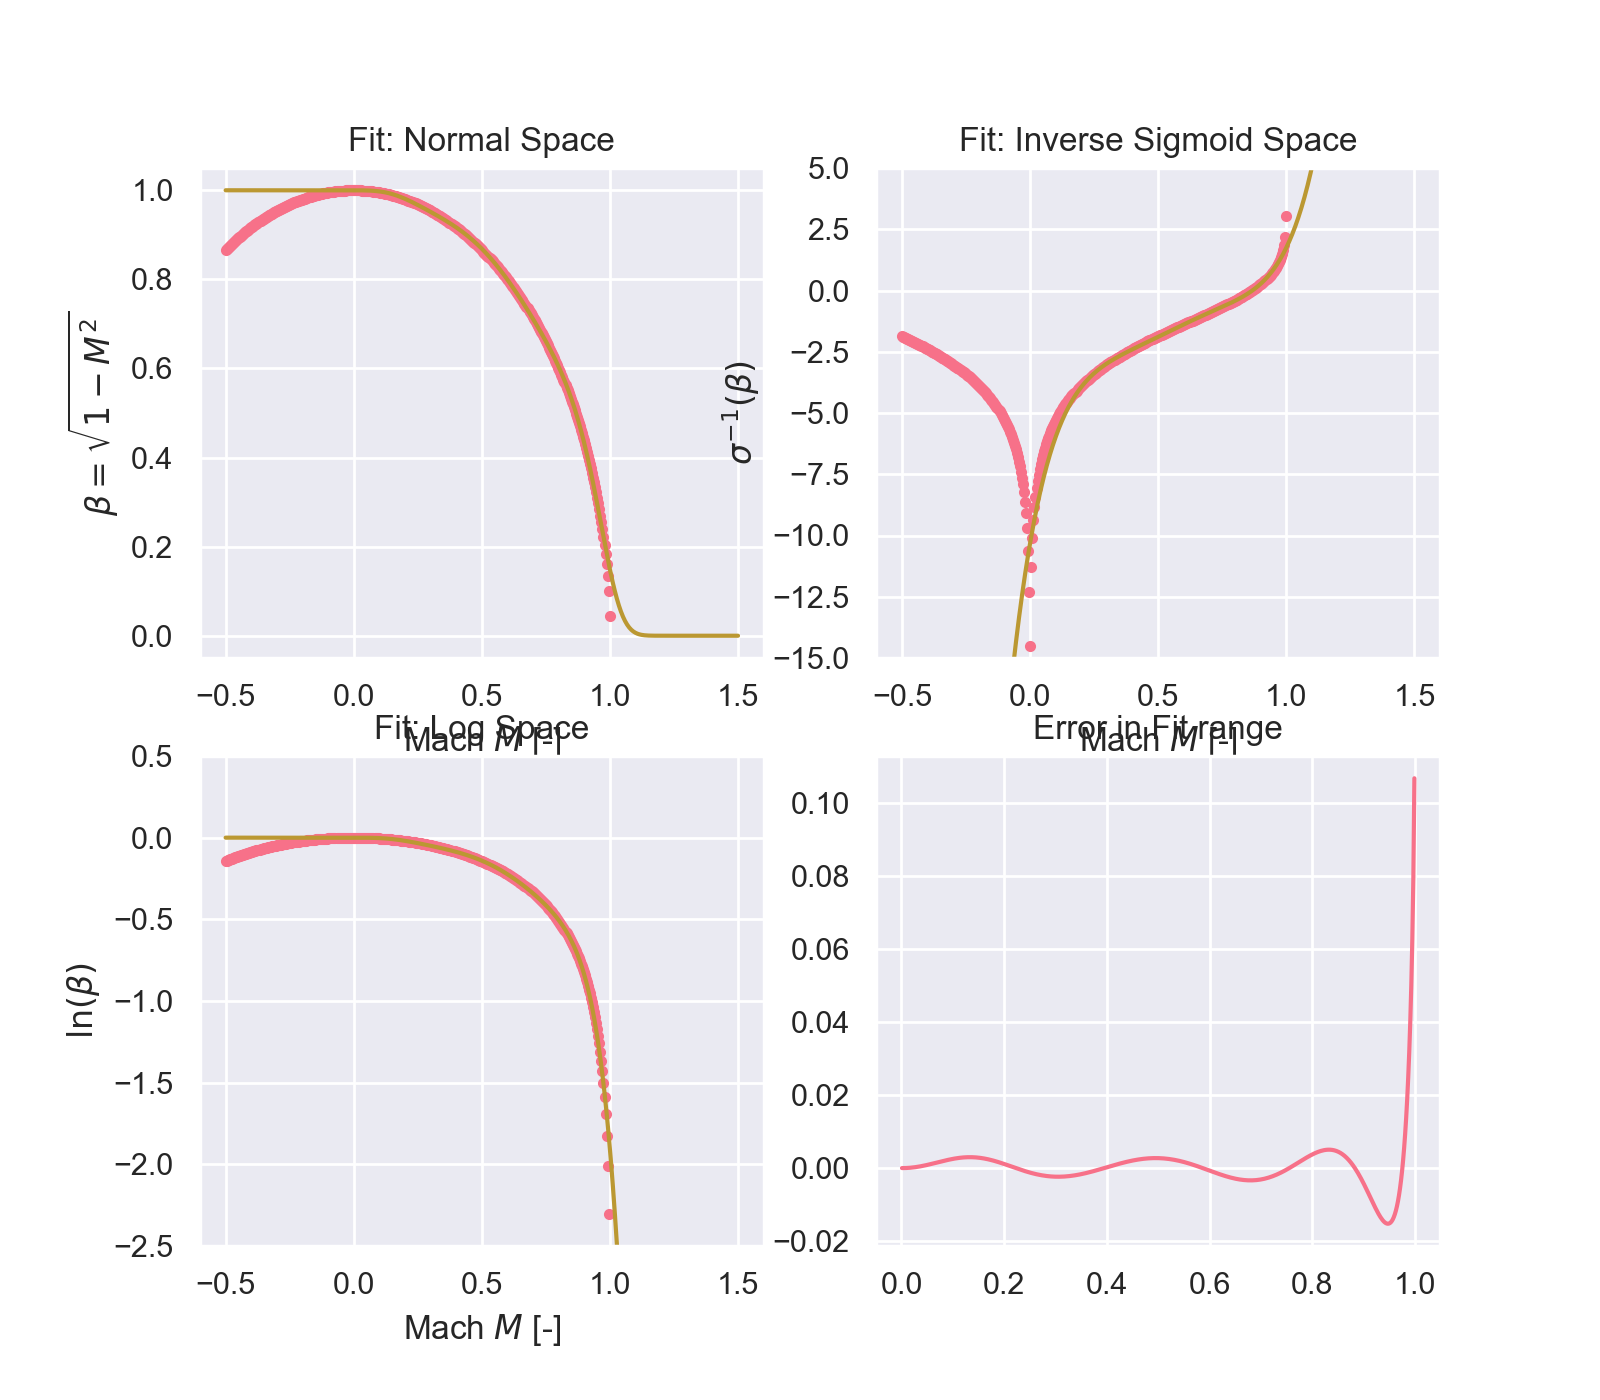
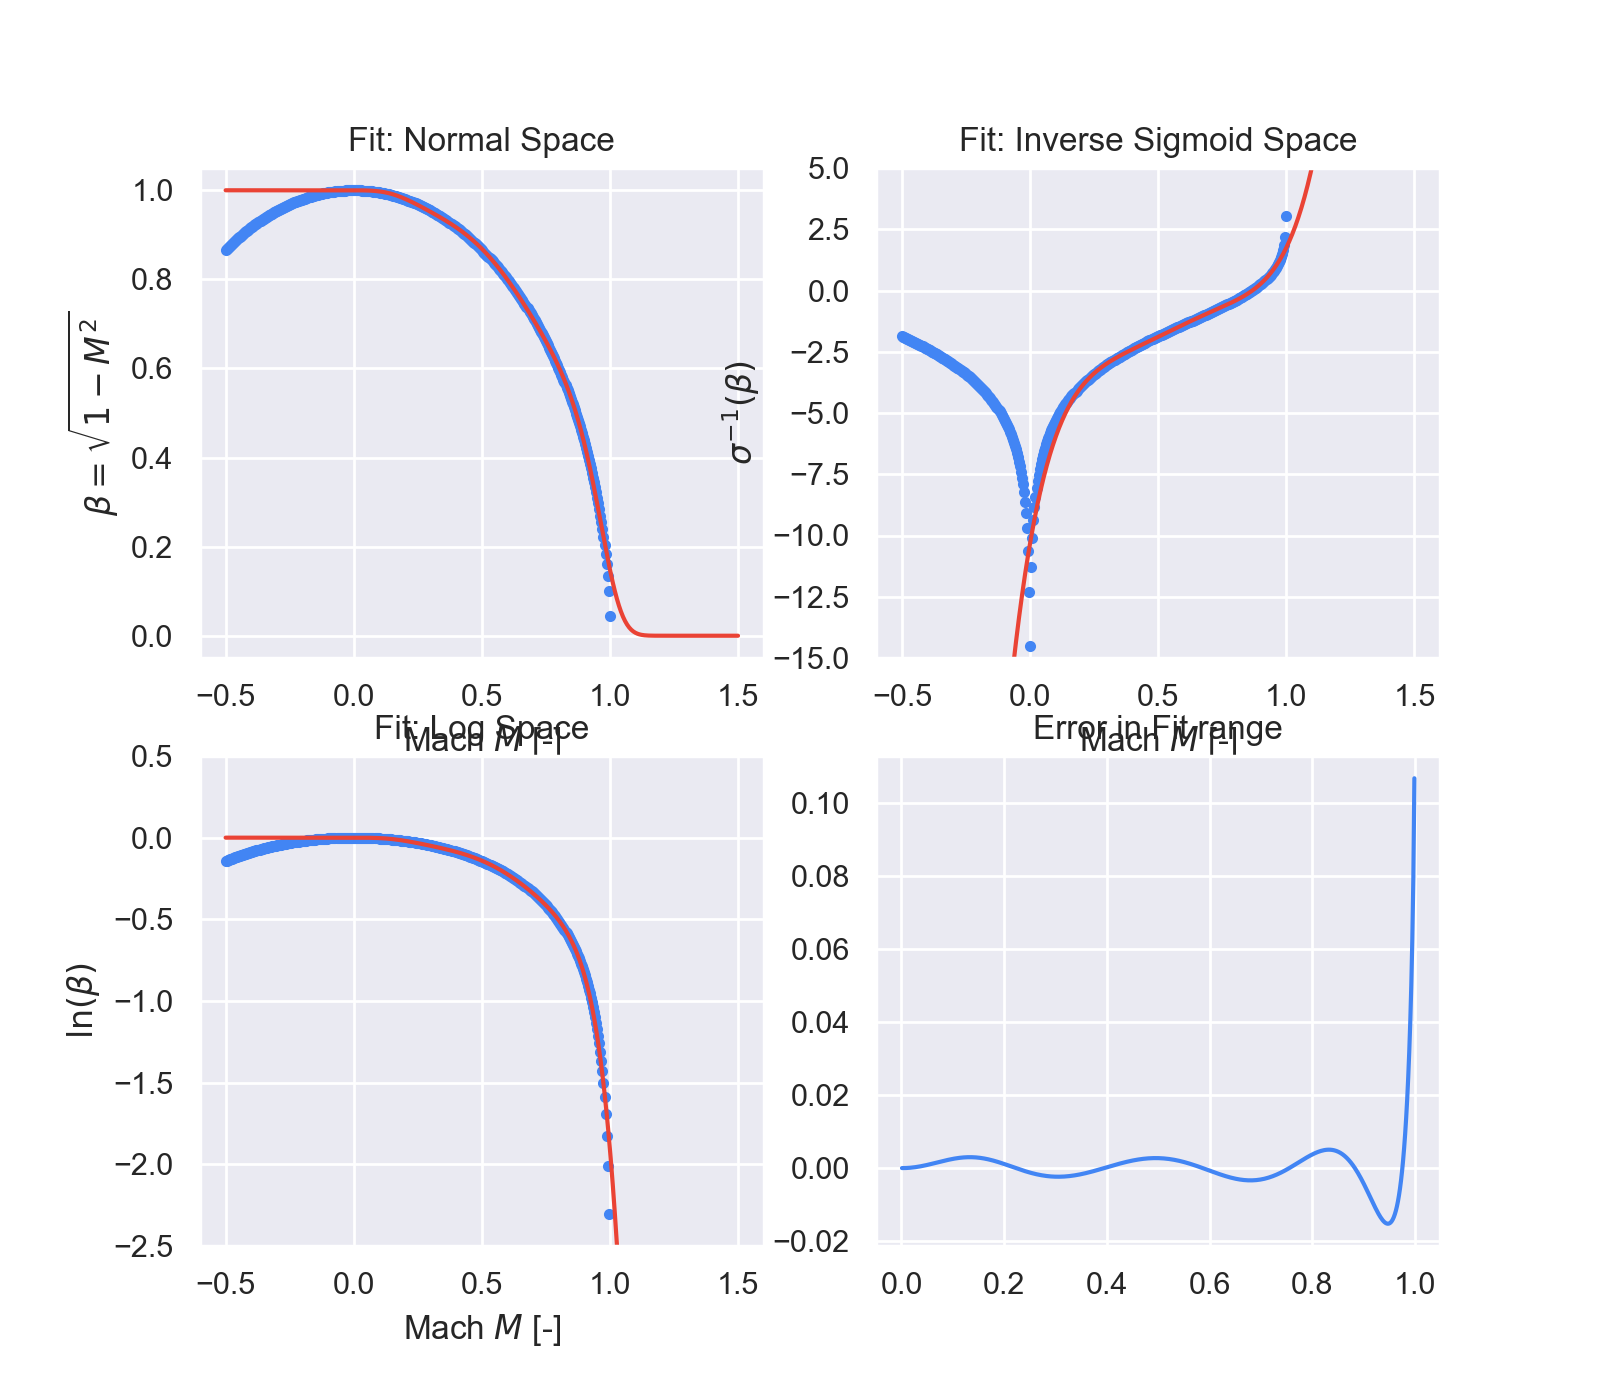
modernize code

diff --git a/studies/MachFitting/machfitting.py b/studies/MachFitting/machfitting.py
@@ -1,10 +1,7 @@
-from aerosandbox.modeling.fitting import fit
+import aerosandbox as asb
+import aerosandbox.numpy as np
 import matplotlib.pyplot as plt
-import seaborn as sns
-from aerosandbox import cas
-
-sns.set(palette=sns.color_palette("husl"))
-import numpy as np
+import aerosandbox.tools.pretty_plots as p
 
 
 def beta(mach):
@@ -15,11 +12,11 @@ machs_to_fit = np.linspace(0.001, 0.999, 500)
 
 
 def sigmoid(x):
-    return 1 / (1 + cas.exp(x))
+    return 1 / (1 + np.exp(x))
 
 
 def inv_sigmoid(x):
-    return cas.log(1 / x - 1)
+    return np.log(1 / x - 1)
 
 
 weights = np.ones_like(machs_to_fit)
@@ -27,29 +24,6 @@ weights[0] = 1000
 weights[machs_to_fit > 0.9] = 0.5
 weights[machs_to_fit > 0.95] = 0.25
 
-
-# def model(x, p):
-#     return sigmoid(
-#         p["m"]*x+p["th"]*cas.tanh((x-p["o"]))+p["c"]
-#     )
-#
-#
-# fit_params = fit(
-#     model=model,
-#     x_data=machs_to_fit,
-#     y_data=beta(machs_to_fit),
-#     param_guesses={
-#         "m": 10,
-#         "c": -0.5,
-#         "th": -1,
-#         "o": 0.6
-#     },
-#     param_bounds={
-#         "o": (0.25, 0.75),
-#         "th": (None, 0),
-#     },
-#     weights=weights
-# )
 
 def model(x, p):
     return sigmoid(
@@ -59,11 +33,11 @@ def model(x, p):
     )
 
 
-fit_params = fit(
+fit = asb.FittedModel(
     model=model,
     x_data=machs_to_fit,
     y_data=beta(machs_to_fit),
-    param_guesses={
+    parameter_guesses={
         "p1": 4.6,
         "o1": 0.89,
         "p3": 140,
@@ -71,7 +45,7 @@ fit_params = fit(
         "p5": 120,
         "o5": 0.79,
     },
-    param_bounds={
+    parameter_bounds={
         "o3": (0, 1),
         "o5": (0, 1),
     },
@@ -79,33 +53,35 @@ fit_params = fit(
     # residual_norm_type="deviation"
 )
 
-error = model(machs_to_fit, fit_params) - beta(machs_to_fit)
+error = fit(machs_to_fit) - beta(machs_to_fit)
 error = np.array(error)
 
 machs_to_plot = np.linspace(-0.5, 1.5, 500)
 fig, ax = plt.subplots(1, 1, figsize=(8, 7), dpi=200)
-plt.subplot("221")
+plt.subplot(221)
 plt.plot(machs_to_plot, beta(machs_to_plot), ".", label="")
-plt.plot(machs_to_plot, model(machs_to_plot, fit_params))
+plt.plot(machs_to_plot, fit(machs_to_plot))
 plt.ylim(-0.05, 1.05)
 plt.title("Fit: Normal Space")
 plt.xlabel(r"Mach $M$ [-]")
 plt.ylabel(r"$\beta = \sqrt{1-M^2}$")
-plt.subplot("222")
+plt.subplot(222)
 plt.plot(machs_to_plot, inv_sigmoid(beta(machs_to_plot)), ".", label="")
-plt.plot(machs_to_plot, inv_sigmoid(model(machs_to_plot, fit_params)))
+plt.plot(machs_to_plot, inv_sigmoid(fit(machs_to_plot)))
 plt.ylim(-15, 5)
 plt.title("Fit: Inverse Sigmoid Space")
 plt.xlabel(r"Mach $M$ [-]")
 plt.ylabel(r"$\sigma^{-1}\left(\beta\right)$")
-plt.subplot("223")
-plt.plot(machs_to_plot, cas.log(beta(machs_to_plot)), ".", label="")
-plt.plot(machs_to_plot, cas.log(model(machs_to_plot, fit_params)))
+plt.subplot(223)
+plt.plot(machs_to_plot, np.log(beta(machs_to_plot)), ".", label="")
+plt.plot(machs_to_plot, np.log(fit(machs_to_plot)))
 plt.ylim(-2.5, 0.5)
 plt.title("Fit: Log Space")
 plt.xlabel(r"Mach $M$ [-]")
 plt.ylabel(r"$\ln(\beta)$")
-plt.subplot("224")
+plt.subplot(224)
 plt.plot(machs_to_fit, error)
 plt.title("Error in Fit range")
 plt.savefig("machfitting.png")
+
+p.show_plot()
